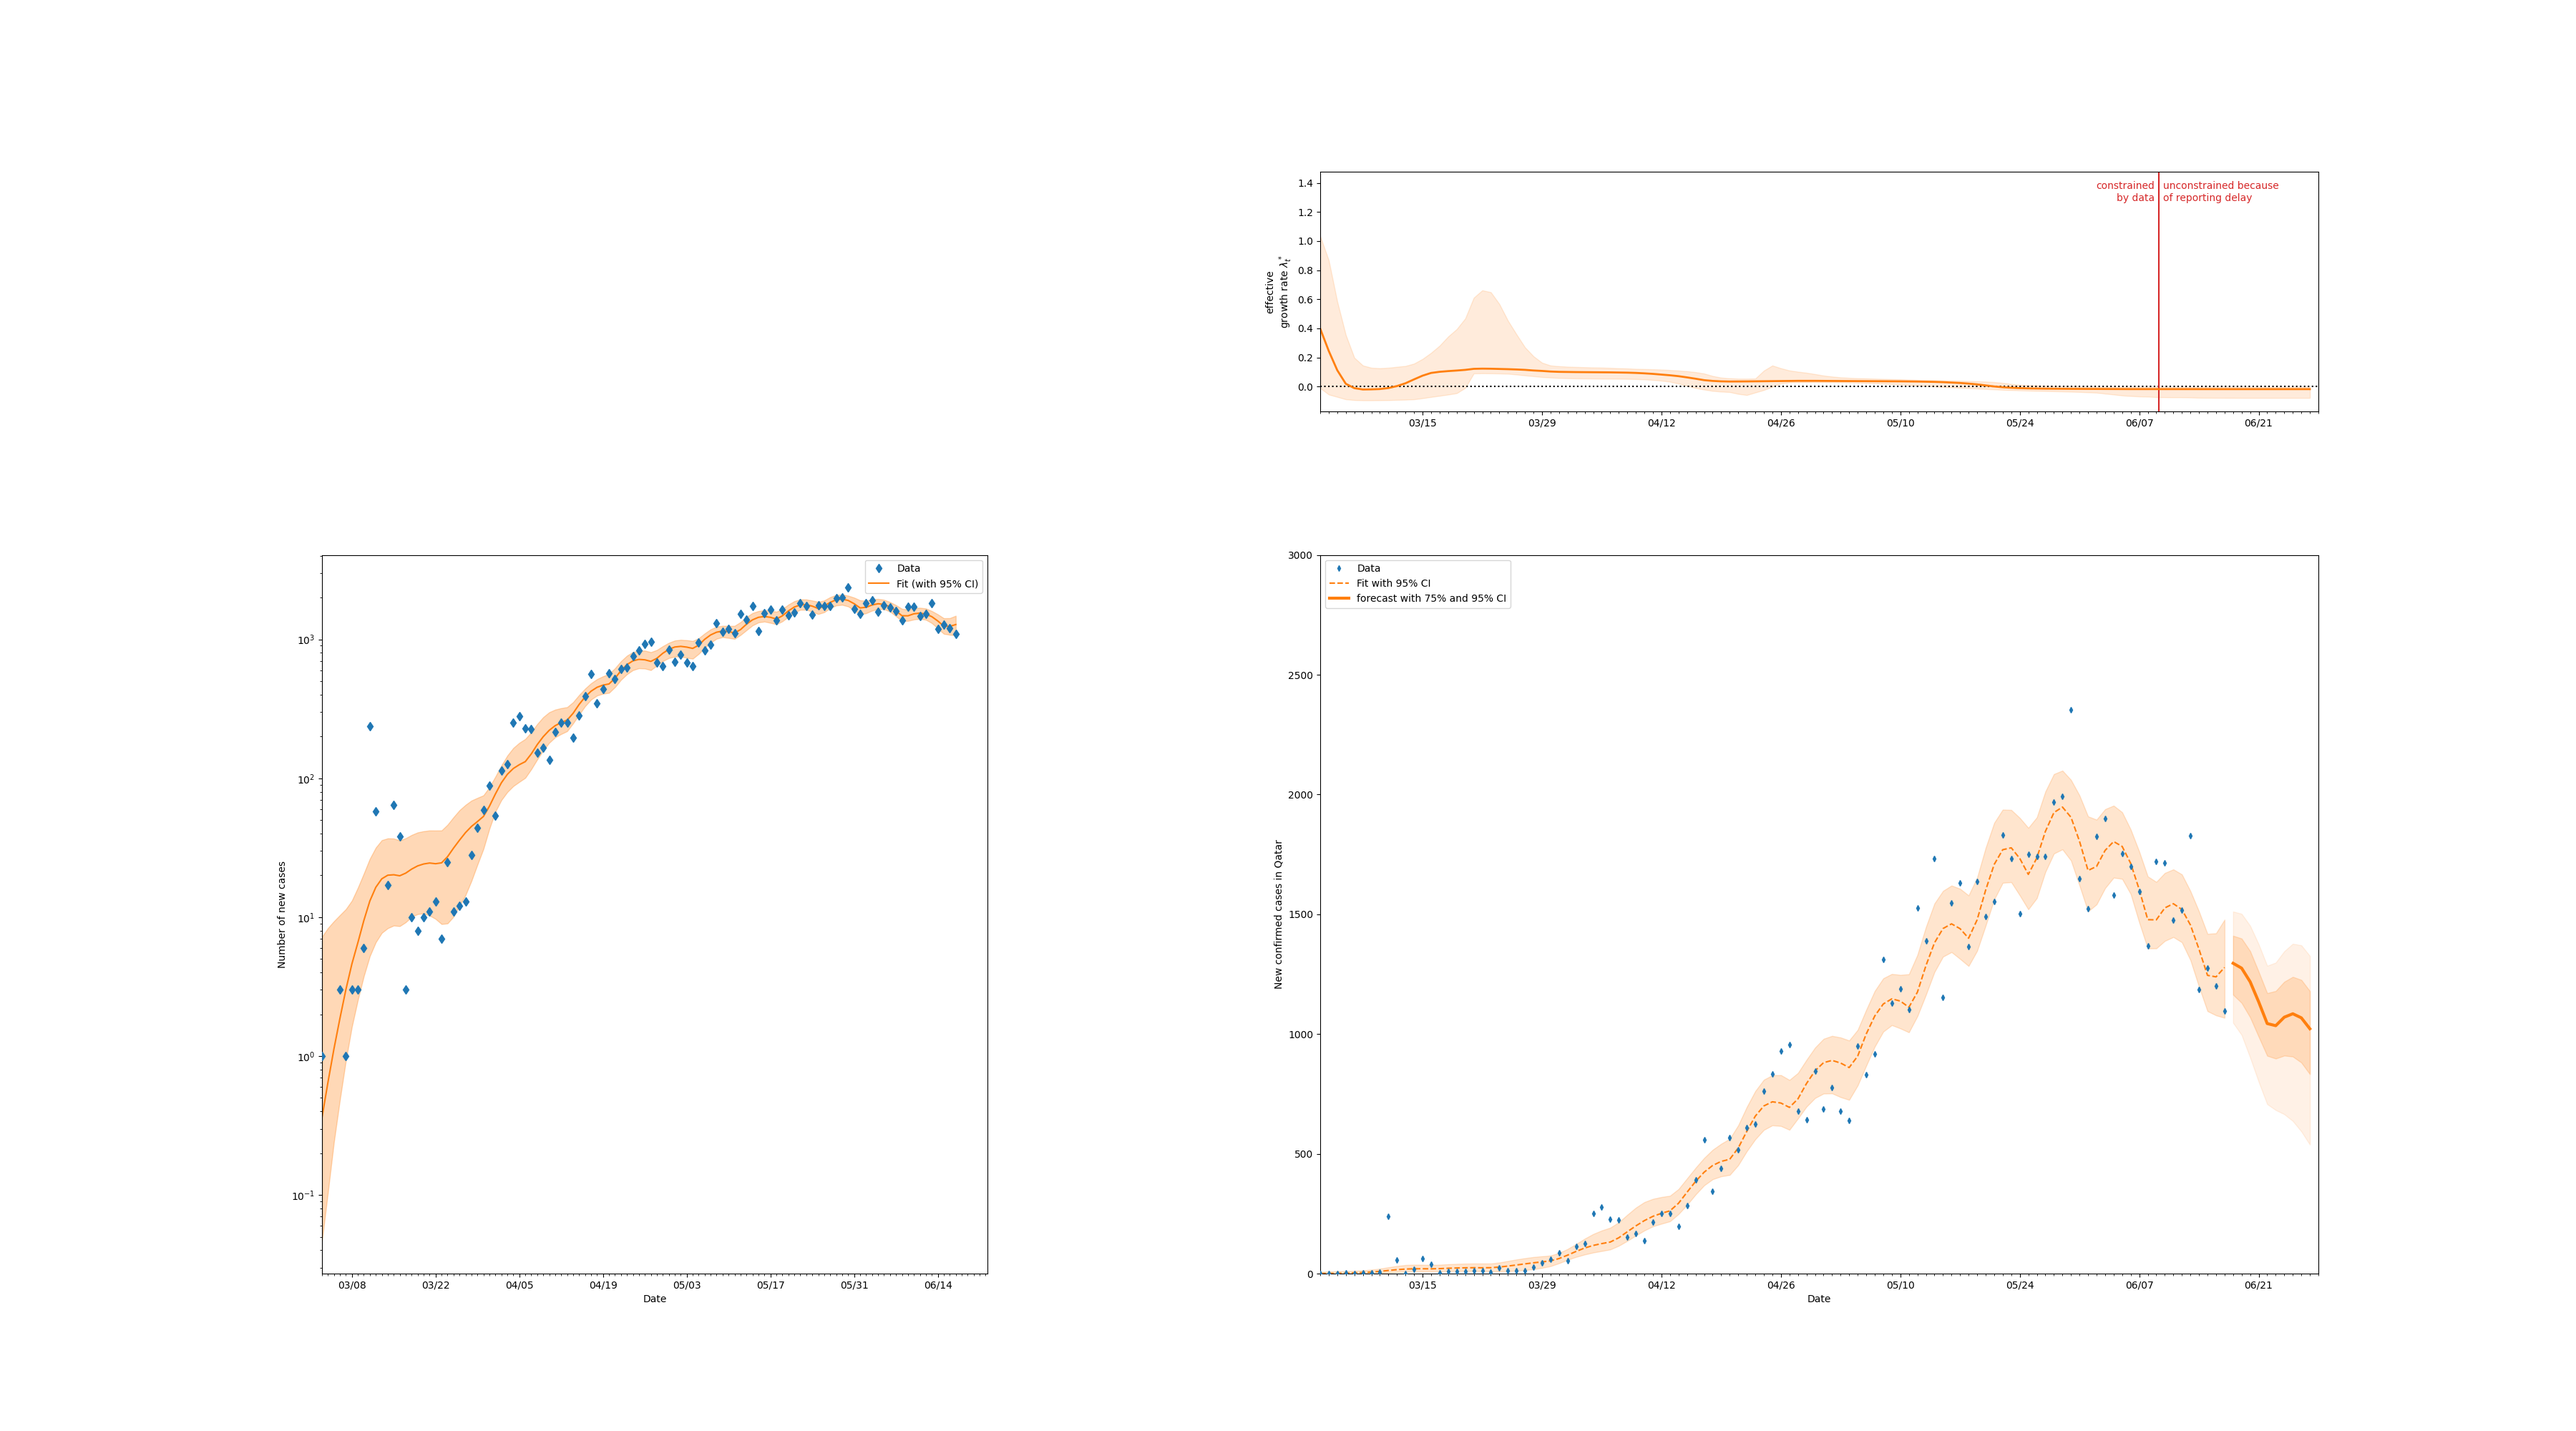
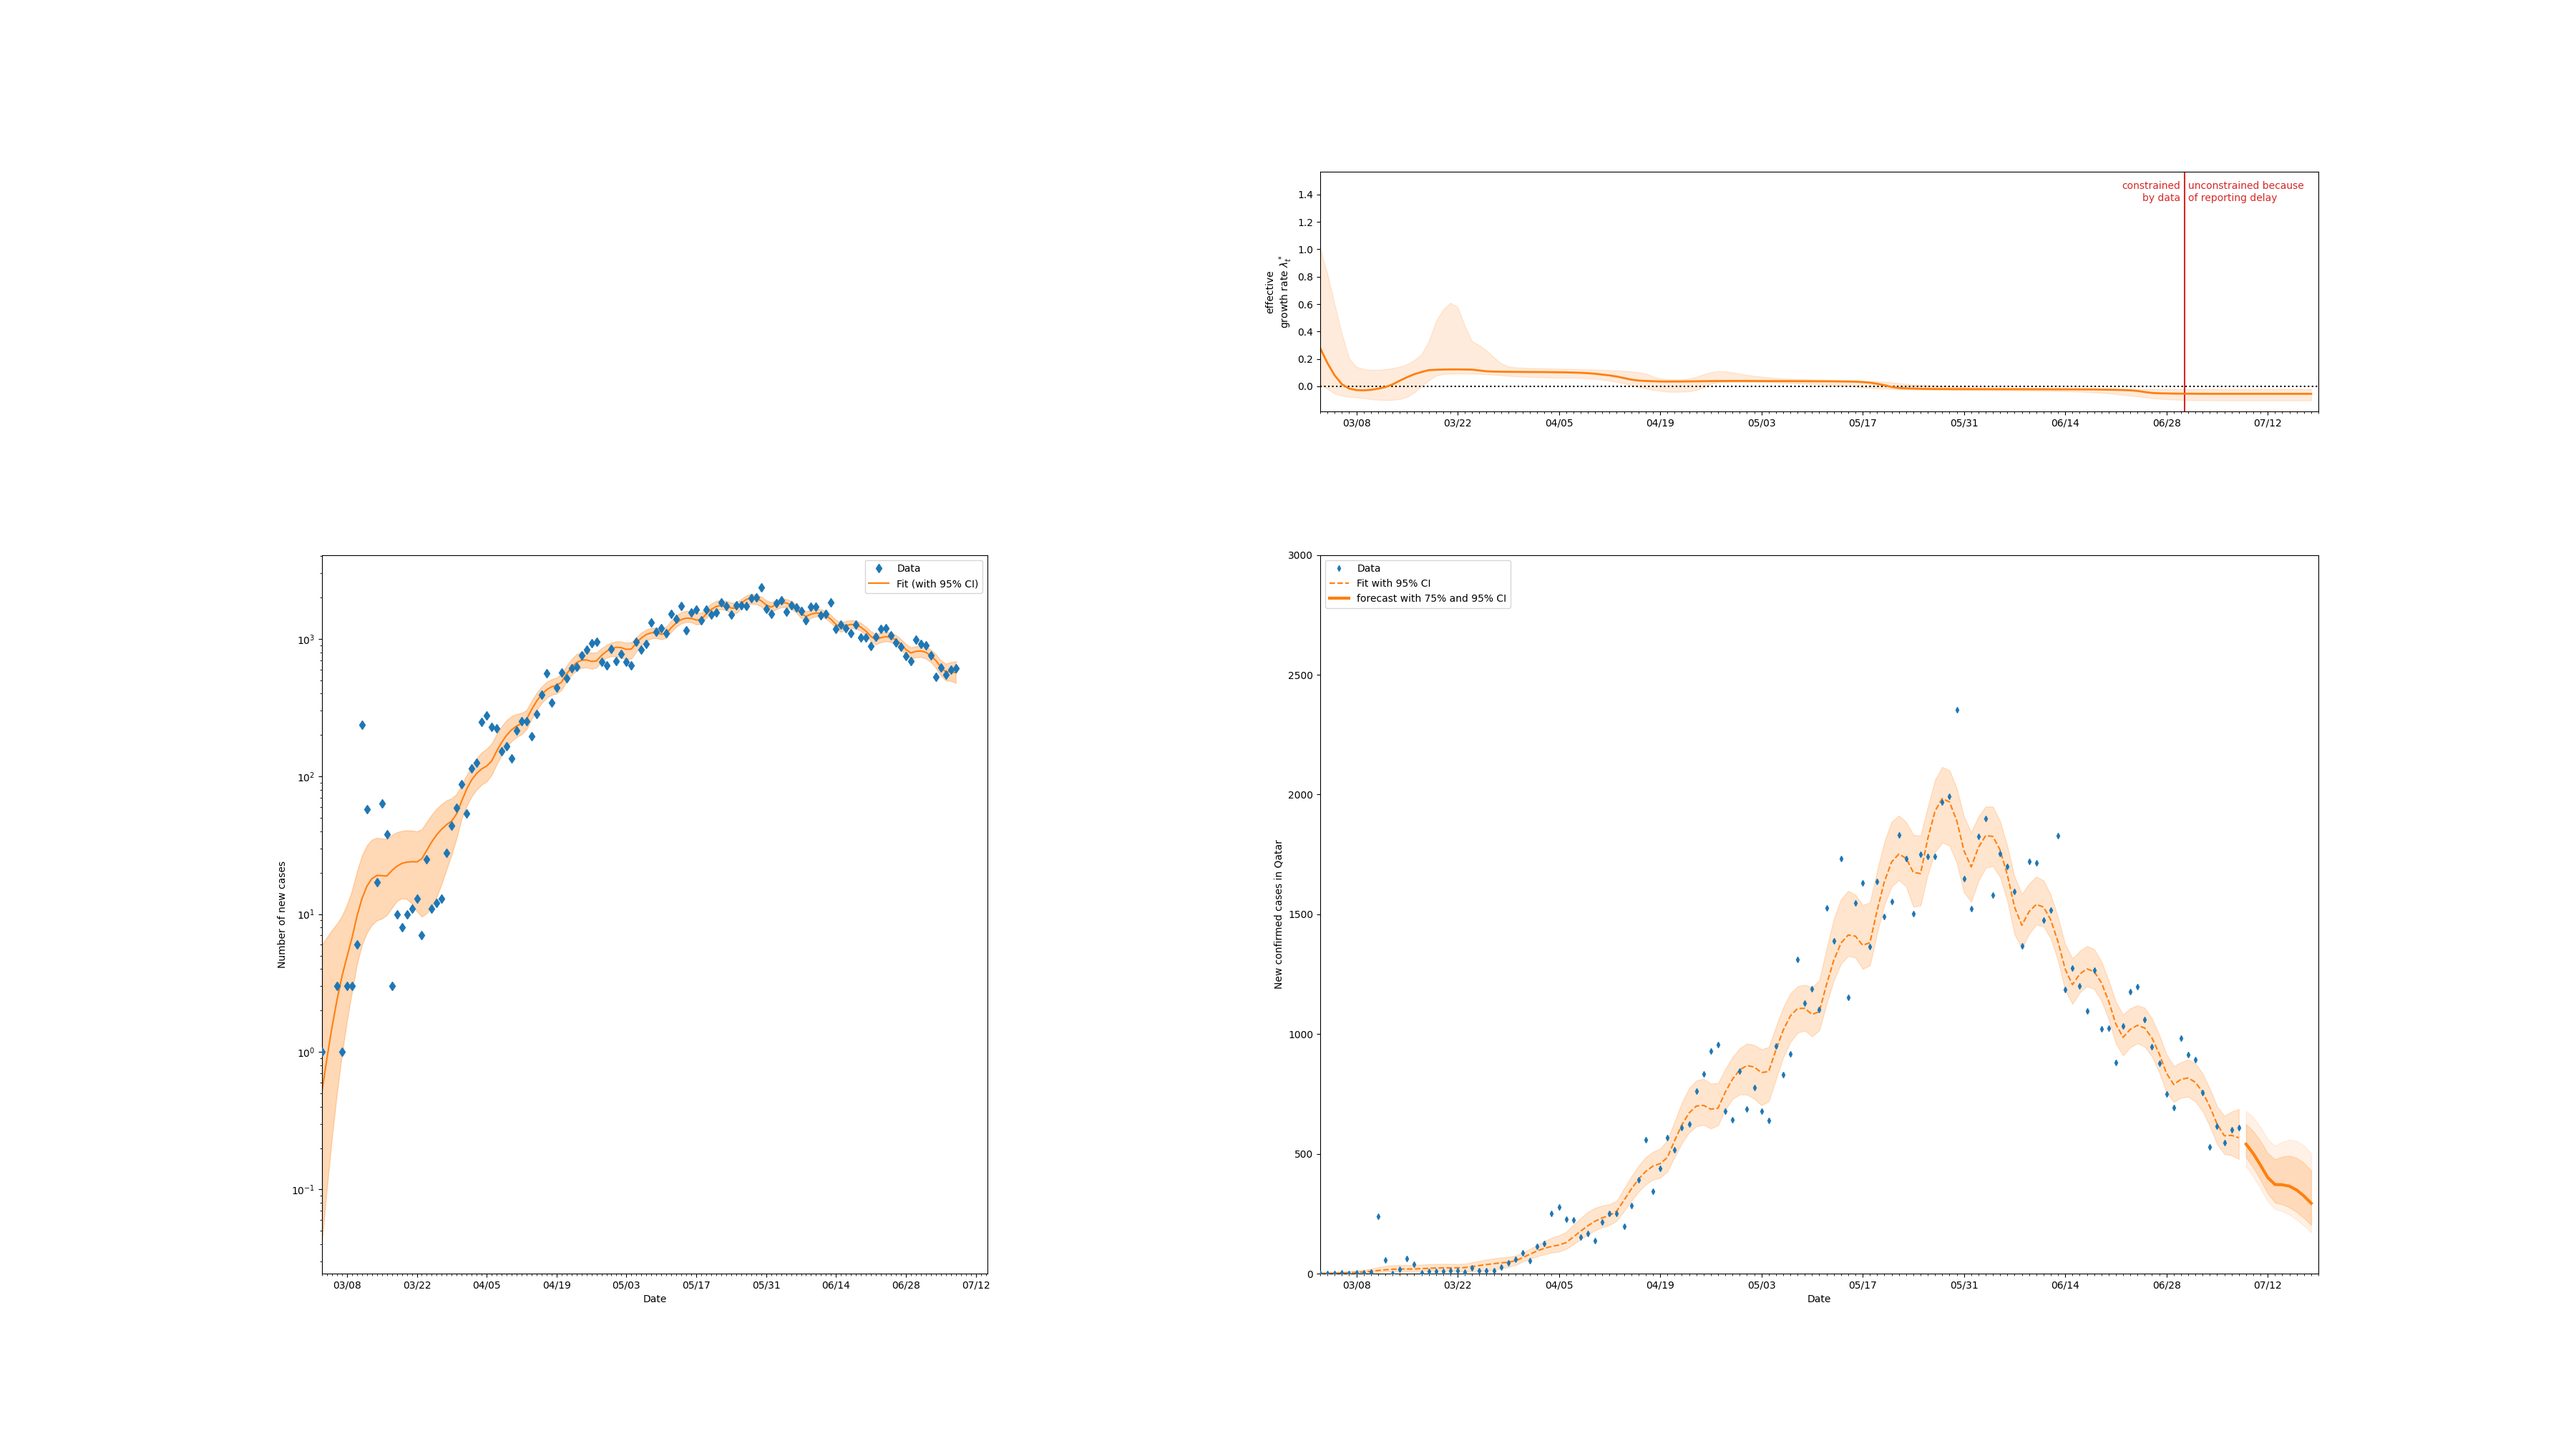
broken parser

diff --git a/scripts/example_qatar.py b/scripts/example_qatar.py
@@ -55,7 +55,7 @@ date_begin_data = datetime.datetime(2020,3,3)
 
 # In[99]
 date_begin_data = datetime.datetime(2020,3,3)
-df = pd.read_csv('../../covid19MLPredictor/data/covid_data_.csv')
+df = pd.read_csv('../../covid19MLPredictor/data/covid_data.csv')
 new_cases_obs = df['Number of New Positive Cases in Last 24 Hrs'].values
 print (df)
 # %%
@@ -68,7 +68,7 @@ prior_date_border_closure =  datetime.datetime(2020,3,18)
 prior_ramadan =  datetime.datetime(2020,4,23)
 prior_date_mask_shopping =  datetime.datetime(2020,4,26)
 prior_date_mask_compulsory = datetime.datetime(2020,5,17)
-#prior_date_eid_measures = datetime.datetime(2020,5,21)
+prior_date_phase1 = datetime.datetime(2020,6,15)
 # List of change points
 change_points = [dict(pr_mean_date_transient = prior_date_school_shutdown,
                       pr_sigma_date_transient = 6,
@@ -89,11 +89,11 @@ change_points = [dict(pr_mean_date_transient = prior_date_school_shutdown,
                  dict(pr_mean_date_transient = prior_date_mask_compulsory,
                       pr_sigma_date_transient = 10,
                       pr_median_lambda = 1/8/4,
+                      pr_sigma_lambda = 1),
+                 dict(pr_mean_date_transient = prior_date_phase1,
+                      pr_sigma_date_transient = 6,
+                      pr_median_lambda = 1/8/4,
                       pr_sigma_lambda = 1)]
-                 # dict(pr_mean_date_transient = prior_date_eid_measures,
-                 #      pr_sigma_date_transient = 6,
-                 #      pr_median_lambda = 1/8,
-                 #      pr_sigma_lambda = 1)]
 
 # %% [markdown]
 # Then, create the model:
